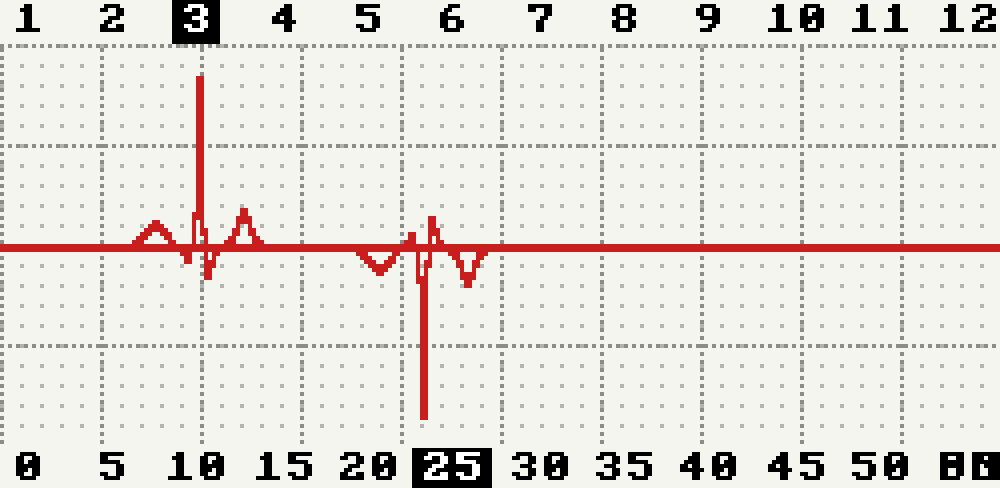
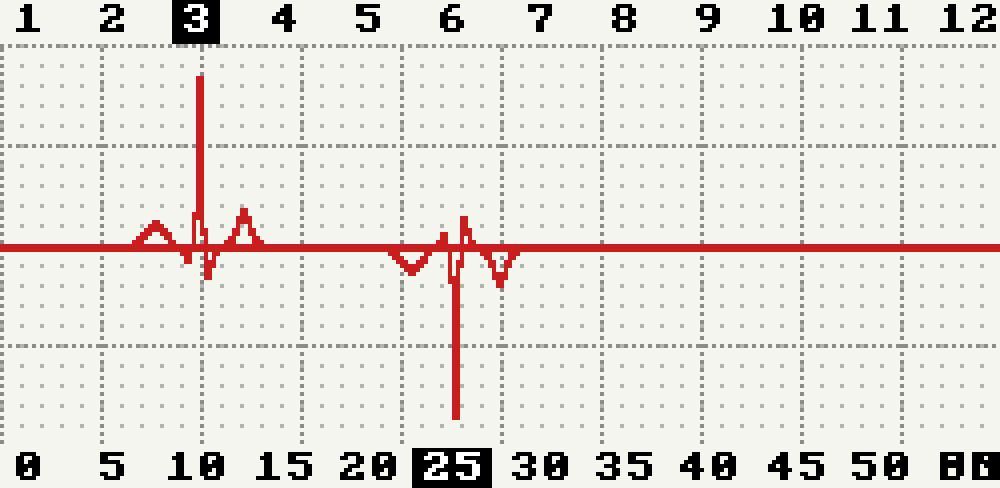
Offset minute spike +2 to compensate for ECG stem visual shift
The long stem of the ECG waveform makes the spike appear 2 minutes
behind its peak position. Adding +2 to the trace call sites shifts
the spike forward so the stem visually aligns with the correct minute.

Claude-Session: https://claude.ai/code/session_01XLdymnhpdpLwgaRh7QXt88

Changed region(s): [[0.341, 0.4303, 0.527, 0.8607]]

diff --git a/watchface.py b/watchface.py
@@ -103,10 +103,10 @@ def draw_watchface(fb, hour12, minute, is_pm, fb_red=None):
     if fb_red:
         fb_red.fill(0)
         _trace(fb_red, _BL, _hx(hour12), _PK, -1, 1)
-        _trace(fb_red, _BL, _mx(minute), _PK, 1, 1)
+        _trace(fb_red, _BL, _mx(minute + 2), _PK, 1, 1)
     else:
         _trace(fb, _BL, _hx(hour12), _PK, -1)
-        _trace(fb, _BL, _mx(minute), _PK, 1)
+        _trace(fb, _BL, _mx(minute + 2), _PK, 1)
 
     for h in range(1, 13):
         _label(fb, h, _hx(h), _LBL_HR_Y, h == hour12)

diff --git a/preview.py b/preview.py
@@ -110,7 +110,7 @@ def render(hour24, minute):
     # traces
     tc = (200, 30, 30)
     hr_px = _hx(h12)
-    mn_px = _mx(minute)
+    mn_px = _mx(minute + 2)
     for peak_x, sign in [(hr_px, -1), (mn_px, 1)]:
         prev = _BL
         for x in range(W):
